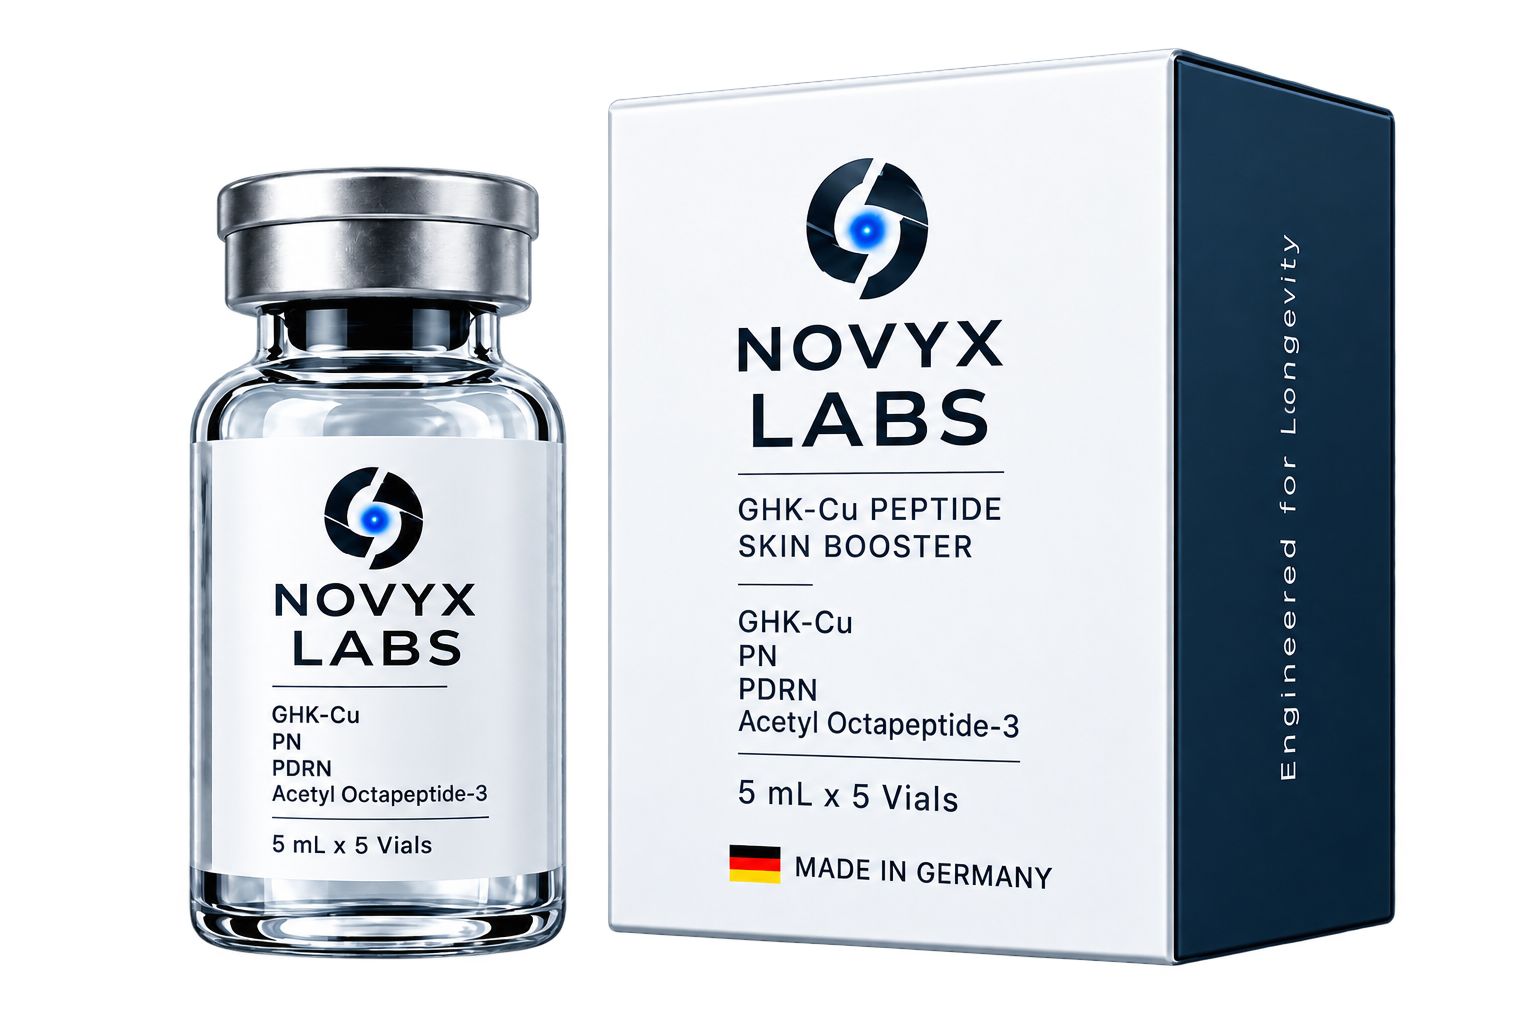
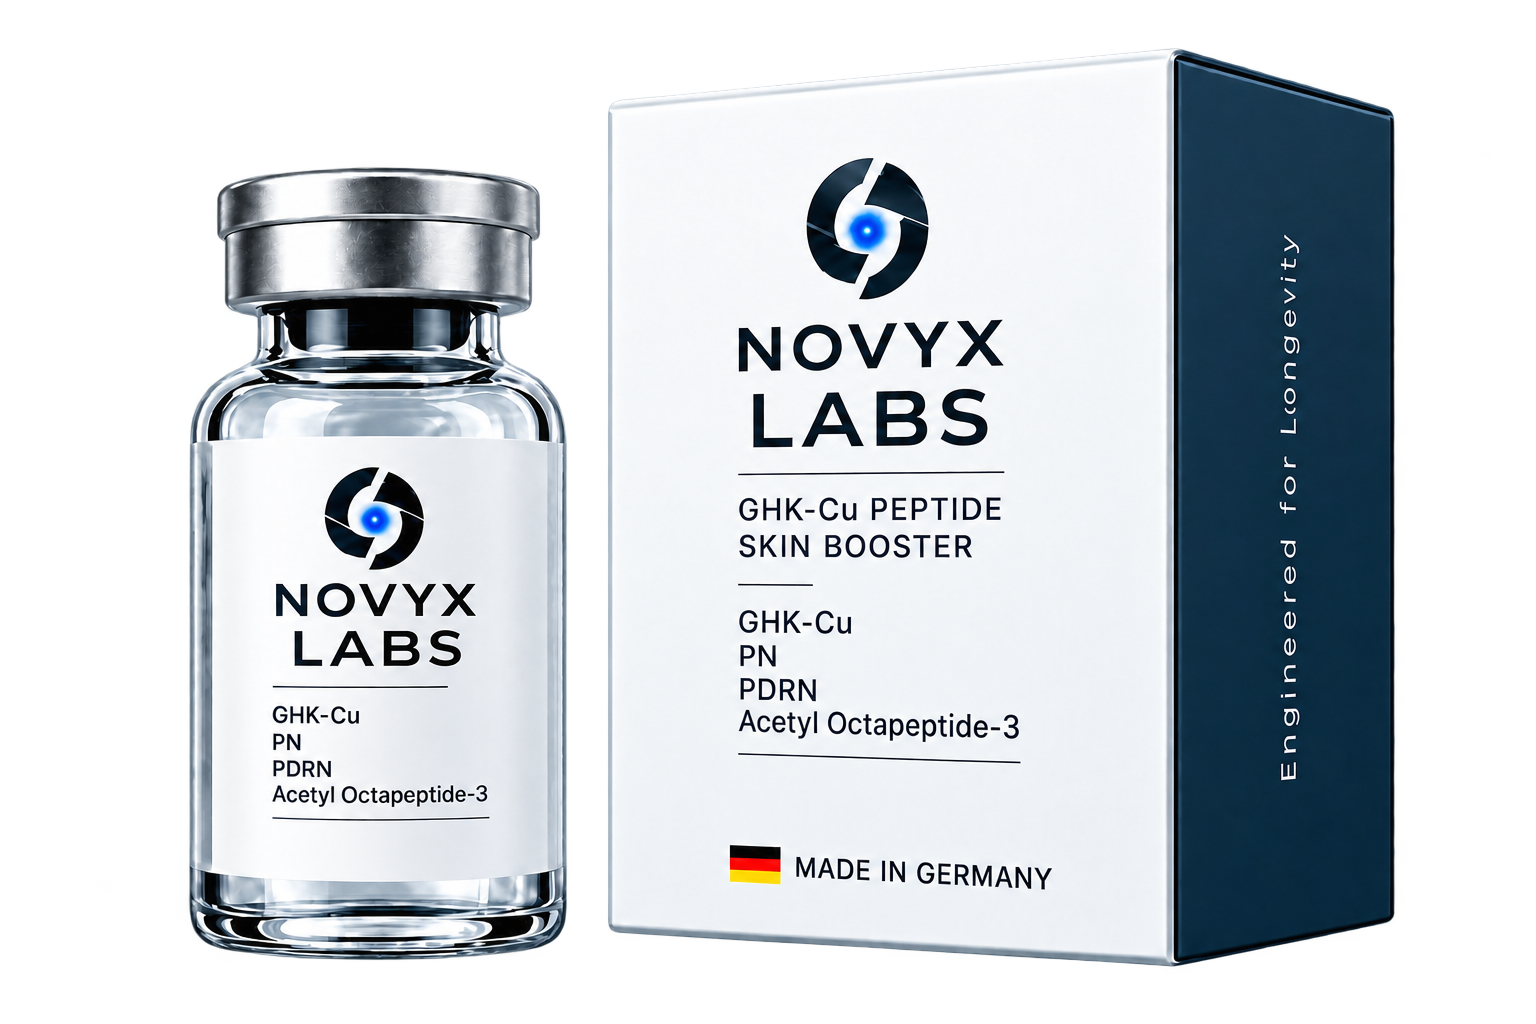
update

diff --git a/novy/src/lib/server/vial-image-replacements.ts b/novy/src/lib/server/vial-image-replacements.ts
@@ -1,0 +1,29 @@
+// One-time replacement for the original Cloudinary vial renders that had pack counts printed on their labels.
+// Match exact source URLs so later dashboard uploads stay untouched.
+export const VIAL_IMAGE_REPLACEMENTS: Record<string, string> = {
+  "https://res.cloudinary.com/ygpkjbpn/image/upload/v1791390430/novyx/products/bmwr1wvan2q7o0o18tww.webp": "/products/novyx_cutis_box_vial.webp",
+  "https://res.cloudinary.com/ygpkjbpn/image/upload/v1792001554/novyx/products/a6hfk9xbtjrjjmpyx8bx.png": "/products/clean-vials/nx-blend-frag-modgrf-ipa.webp",
+  "https://res.cloudinary.com/ygpkjbpn/image/upload/v1792001623/novyx/products/vjp8brpvea4lqdwts6sd.png": "/products/clean-vials/nx-blend-bpc-tb500.webp",
+  "https://res.cloudinary.com/ygpkjbpn/image/upload/v1792001695/novyx/products/jpatytofbfp583htxmlz.png": "/products/clean-vials/nx-blend-cjc-ghrp6.webp",
+  "https://res.cloudinary.com/ygpkjbpn/image/upload/v1792001749/novyx/products/rtudalirzyib7pnjixgd.png": "/products/clean-vials/nx-blend-cjc-ipa.webp",
+  "https://res.cloudinary.com/ygpkjbpn/image/upload/v1792001795/novyx/products/cjtopoixbwghpyl7e6tf.png": "/products/clean-vials/nx-blend-cjc-ipa-ghrp2.webp",
+  "https://res.cloudinary.com/ygpkjbpn/image/upload/v1792001841/novyx/products/p7whotu8zg8j1a8x5nvg.png": "/products/clean-vials/nx-blend-frag-cjc-ipa.webp",
+  "https://res.cloudinary.com/ygpkjbpn/image/upload/v1792002073/novyx/products/jqqqykllcgpz7kzwouvi.png": "/products/clean-vials/nx-blend-modgrf-ghrp2.webp",
+  "https://res.cloudinary.com/ygpkjbpn/image/upload/v1792002116/novyx/products/q6jynvqqpdymbwwtolc6.png": "/products/clean-vials/nx-blend-modgrf-ipa.webp",
+  "https://res.cloudinary.com/ygpkjbpn/image/upload/v1792002149/novyx/products/gfhvv8tmlkwhqdhgn3it.png": "/products/clean-vials/nx-blend-sermorelin-ipa.webp",
+  "https://res.cloudinary.com/ygpkjbpn/image/upload/v1792002192/novyx/products/sgpenvudl4c7gdhov15w.png": "/products/clean-vials/nx-blend-modgrf-ghrp6.webp",
+  "https://res.cloudinary.com/ygpkjbpn/image/upload/v1792002232/novyx/products/g569pkimics7un5ce7yl.png": "/products/clean-vials/nx-blend-cjc-ghrp2.webp",
+  "https://res.cloudinary.com/ygpkjbpn/image/upload/v1792002316/novyx/products/w798kn3wkx71rzlbfcpz.png": "/products/clean-vials/nx-blend-tesa-cjc-ipa.webp",
+  "https://res.cloudinary.com/ygpkjbpn/image/upload/v1792002395/novyx/products/rm8lurjzbdna3ydyvx5j.png": "/products/clean-vials/nx-blend-tesa-ipa.webp",
+  "https://res.cloudinary.com/ygpkjbpn/image/upload/v1792002465/novyx/products/xq1hi0dycogjr3p1zmyy.png": "/products/clean-vials/nx-blend-bpc-tb500-ghk.webp",
+  "https://res.cloudinary.com/ygpkjbpn/image/upload/v1792002525/novyx/products/ledpncuenj16kaet6rqh.png": "/products/clean-vials/nx-blend-sermorelin-ghrp6-ghrp2.webp",
+  "https://res.cloudinary.com/ygpkjbpn/image/upload/v1792002605/novyx/products/ojlwjqmyna1a64imytb3.png": "/products/clean-vials/nx-blend-klow.webp",
+  "https://res.cloudinary.com/ygpkjbpn/image/upload/v1792002686/novyx/products/jibvx6kxmiumtqit5xak.png": "/products/clean-vials/0266b8f6-e4ff-4436-9eb6-d5262dbce36b.webp",
+  "https://res.cloudinary.com/ygpkjbpn/image/upload/v1792002770/novyx/products/chjq1ejyathbw7opzf08.png": "/products/clean-vials/b4b361c2-6838-4bb3-956b-d811a11b1ae5.webp",
+  "https://res.cloudinary.com/ygpkjbpn/image/upload/v1792002850/novyx/products/ej6wsyzfepbubaxnnhl9.png": "/products/clean-vials/80210c08-a1fc-43a5-9258-8cd70f94056b.webp",
+  "https://res.cloudinary.com/ygpkjbpn/image/upload/v1792002919/novyx/products/bem4pc2uvyji5e1hdyjs.png": "/products/clean-vials/1008b6b5-9ab6-4079-8ae4-518988b01661.webp",
+  "https://res.cloudinary.com/ygpkjbpn/image/upload/v1792003008/novyx/products/ldwcqjw1sbaauesenqqw.png": "/products/clean-vials/762b1873-66bc-40dd-bfd1-afa5b8c7010a.webp",
+  "https://res.cloudinary.com/ygpkjbpn/image/upload/v1792003083/novyx/products/jiue4oywtilxdwufmmgk.png": "/products/clean-vials/17de150b-2ad9-43c7-810d-cd1d81a71ddb.webp",
+  "https://res.cloudinary.com/ygpkjbpn/image/upload/v1792003134/novyx/products/qwvsx3tsa9eciy1urnwu.png": "/products/clean-vials/b21d579b-e3db-4fd9-8f81-4fcb98a2731b.webp",
+  "https://res.cloudinary.com/ygpkjbpn/image/upload/v1792003217/novyx/products/xlho5pw53hs14ojxmakq.png": "/products/clean-vials/2e1032b2-d347-408d-9a65-6da821538f1c.webp"
+};

diff --git a/novy/src/app/products/novyx/page.tsx b/novy/src/app/products/novyx/page.tsx
@@ -109,7 +109,7 @@ export default async function NovyxSkinBoosterPage() {
     [t("Presentation", "Darreichung"), t("Sterile, ready-to-use liquid", "Sterile, gebrauchsfertige Flüssigkeit")],
     [t("Vial size", "Fläschchengröße"), "5 mL"],
     [t("Box", "Packung"), t("5 single-use vials", "5 Einwegfläschchen")],
-    [t("Origin", "Herkunft"), t("Engineered and made in Korea", "In Korea entwickelt und hergestellt")],
+    [t("Origin", "Herkunft"), t("Engineered and made in Germany", "In Korea entwickelt und hergestellt")],
     [t("Production", "Produktion"), t("GMP and ISO-certified production, as stated in the product brochure", "GMP- und ISO-zertifizierte Produktion laut Produktbroschüre")],
     [t("Storage", "Lagerung"), t("Room temperature, per product brochure", "Raumtemperatur laut Produktbroschüre")],
     [t("Shelf life", "Haltbarkeit"), t("2 years, per product brochure", "2 Jahre laut Produktbroschüre")],
@@ -134,7 +134,7 @@ export default async function NovyxSkinBoosterPage() {
     {
       question: t("How is the NOVYX skin booster presented?", "In welcher Form wird der NOVYX Skin Booster angeboten?"),
       answer: t(
-        "The brochure describes a sterile, ready-to-use liquid made in Korea and supplied as five single-use 5 mL vials. Refer to the supplied labeling for handling and use.",
+        "The brochure describes a sterile, ready-to-use liquid made in Germany and supplied as five single-use 5 mL vials. Refer to the supplied labeling for handling and use.",
         "Die Broschüre beschreibt eine sterile, gebrauchsfertige Flüssigkeit aus Korea in fünf Einwegfläschchen à 5 mL. Für Handhabung und Anwendung gelten die Produktangaben.",
       ),
     },

diff --git a/novy/src/lib/server/content-store.ts b/novy/src/lib/server/content-store.ts
@@ -7,6 +7,7 @@ import { randomUUID } from "node:crypto";
 import type { InquiryStatus, Product, ProductQueryParams } from "@/lib/api/types";
 import { MOCK_PRODUCTS } from "@/data/mock-products";
 import { BLEND_PRODUCTS } from "@/lib/server/blend-seed";
+import { VIAL_IMAGE_REPLACEMENTS } from "@/lib/server/vial-image-replacements";
 import { HERO_SLIDES, type HeroSlide } from "@/components/home/hero-slide-data";
 
 export interface StoredInquiry {
@@ -24,7 +25,7 @@ interface ContentStore {
   inquiries: StoredInquiry[];
 }
 
-const CURRENT_STORE_VERSION = 5;
+const CURRENT_STORE_VERSION = 6;
 
 type HranaValue =
   | { type: "null" }
@@ -160,6 +161,15 @@ function normalizeStore(parsed: Partial<ContentStore>): ContentStore {
     );
 
     products = [...products, ...missingBlends];
+  }
+
+  // Version 6 swaps only the known vial renders with pack-count-free artwork.
+  // Match the original URL so any newer dashboard upload is left in place.
+  if (parsedVersion < 6) {
+    products = products.map((product) => {
+      const replacement = product.imageUrl && VIAL_IMAGE_REPLACEMENTS[product.imageUrl];
+      return replacement ? { ...product, imageUrl: replacement } : product;
+    });
   }
 
   return {

diff --git a/novy/src/components/three/procedural-vial.tsx b/novy/src/components/three/procedural-vial.tsx
@@ -96,10 +96,8 @@ export function ProceduralVial({
     ctx.lineTo(320, startY + 98);
     ctx.stroke();
 
-    // Volume & Unit format
+    // Label footer microcopy
     ctx.fillStyle = "#334155";
-    ctx.font = "500 18px sans-serif";
-    ctx.fillText("5 mL x 5 Vials", 120, startY + 126);
     ctx.font = "bold 14px monospace";
     ctx.fillText("IVI L", 120, startY + 150);
 
